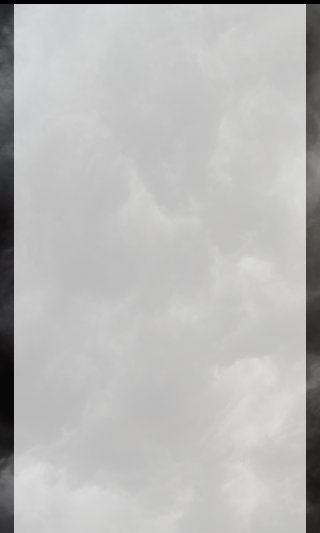
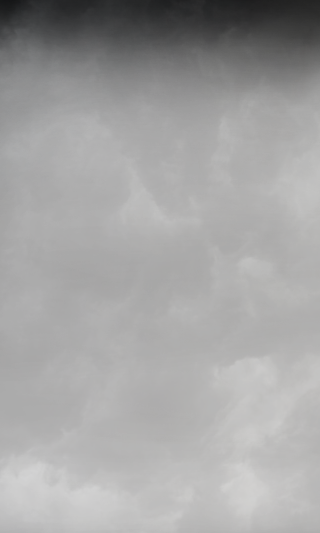
add bg to skills section

diff --git a/sass/main.scss b/sass/main.scss
@@ -38,11 +38,10 @@ body {
 .header {
   height: 100vh;
   position: relative;
-  background-image: url(../assets/backgounds/headerBg.png);
+  background-image: url(../assets/backgounds/header-bg.png);
   background-repeat: no-repeat;
   background-size: cover;
   background-position: center center;
-
   &_logo {
     position: absolute;
     top: 35%;
@@ -156,7 +155,7 @@ body {
     display: inline-block;
     width: 300px;
     position: absolute;
-    top: 40%;
+    top: 42%;
     left: 50%;
     transform: translate(-50%, 0);
     text-align: center;
@@ -408,14 +407,14 @@ body {
   min-height: 100vh;
   display: flex;
   flex-direction: column;
+  background-repeat: no-repeat;
   background-size: cover;
   background-position: center center;
-
   background-image: url(../assets/backgounds/skills-bg.png);
 
   .paragraph2 {
     font-size: 1.8rem;
-    margin: 40px 20px 30px 10px;
+    margin: 20px 20px 30px 10px;
     letter-spacing: 3px;
   }
   & .skill_leftSide {
@@ -449,6 +448,7 @@ body {
       height: 10px;
       width: 80vw;
       background-size: contain;
+      background-repeat: no-repeat;
       background-image: url("../assets/skills/line1.png");
     }
     &-p {
@@ -492,6 +492,7 @@ body {
       height: 10px;
       width: 80vw;
       background-size: contain;
+      background-repeat: no-repeat;
       background-image: url("../assets/skills/line1.png");
     }
     &-p {

diff --git a/css/main.css b/css/main.css
@@ -38,7 +38,7 @@ body {
 .header {
   height: 100vh;
   position: relative;
-  background-image: url(../assets/backgounds/headerBg.png);
+  background-image: url(../assets/backgounds/header-bg.png);
   background-repeat: no-repeat;
   background-size: cover;
   background-position: center center;
@@ -203,7 +203,7 @@ body {
   display: inline-block;
   width: 300px;
   position: absolute;
-  top: 40%;
+  top: 42%;
   left: 50%;
   -webkit-transform: translate(-50%, 0);
           transform: translate(-50%, 0);
@@ -601,6 +601,7 @@ body {
   -webkit-box-direction: normal;
       -ms-flex-direction: column;
           flex-direction: column;
+  background-repeat: no-repeat;
   background-size: cover;
   background-position: center center;
   background-image: url(../assets/backgounds/skills-bg.png);
@@ -608,7 +609,7 @@ body {
 
 .skills .paragraph2 {
   font-size: 1.8rem;
-  margin: 40px 20px 30px 10px;
+  margin: 20px 20px 30px 10px;
   letter-spacing: 3px;
 }
 
@@ -669,6 +670,7 @@ body {
   height: 10px;
   width: 80vw;
   background-size: contain;
+  background-repeat: no-repeat;
   background-image: url("../assets/skills/line1.png");
 }
 
@@ -740,6 +742,7 @@ body {
   height: 10px;
   width: 80vw;
   background-size: contain;
+  background-repeat: no-repeat;
   background-image: url("../assets/skills/line1.png");
 }
 
